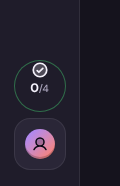
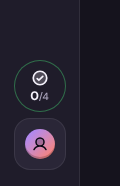
fix: conteúdo do selo da fila centralizado no círculo do menu recolhido
Story: bloqueio por chat do Geiko (thread do projeto)

Claude-Session: https://claude.ai/code/session_01TycdCNfiWbPwwJbUjeLK47

Changed region(s): [[0.25, 0.3226, 0.425, 0.5645]]

diff --git a/public/recreio.css b/public/recreio.css
@@ -307,7 +307,7 @@ html[data-skin="recreio"] .side-fold { display: none; }
   html.side-mini[data-skin="recreio"] .side-hub { align-items: center; width: 100%; }
   html.side-mini[data-skin="recreio"] .who { flex-direction: column; align-items: center; }
   html.side-mini[data-skin="recreio"] .who .acct { flex: none; order: 0; }
-  html.side-mini[data-skin="recreio"] .gate-pill { flex-direction: column; gap: 1px; width: 52px; min-height: 52px; height: 52px; padding: 0; border-radius: 50%; font-size: .78rem; }
+  html.side-mini[data-skin="recreio"] .gate-pill { flex-direction: column; justify-content: center; align-items: center; gap: 1px; width: 52px; min-height: 52px; height: 52px; padding: 0; border-radius: 50%; font-size: .78rem; }
   html.side-mini[data-skin="recreio"] .gate-pill.icon-only { width: 48px; min-height: 48px; height: 48px; padding: 0; border-radius: 50%; }
   html.side-mini[data-skin="recreio"] .acct-btn { width: 52px; min-height: 52px; padding: 0; justify-content: center; }
   html.side-mini[data-skin="recreio"] .acct-btn :is(#pname, .chev) { display: none; }
